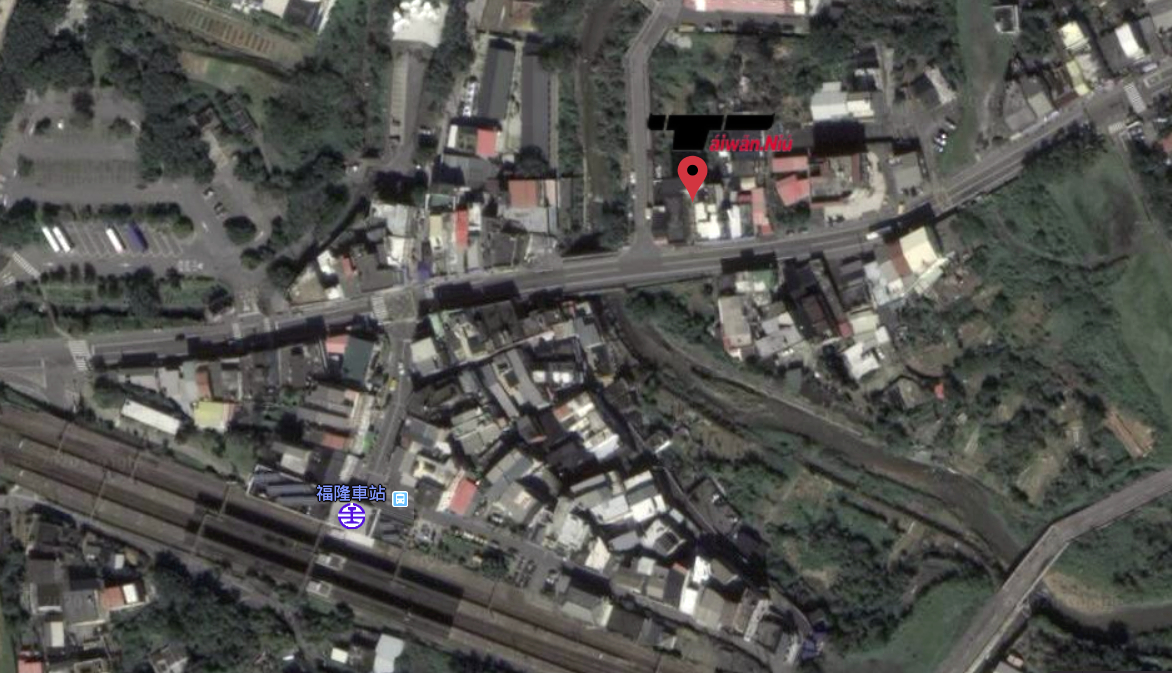
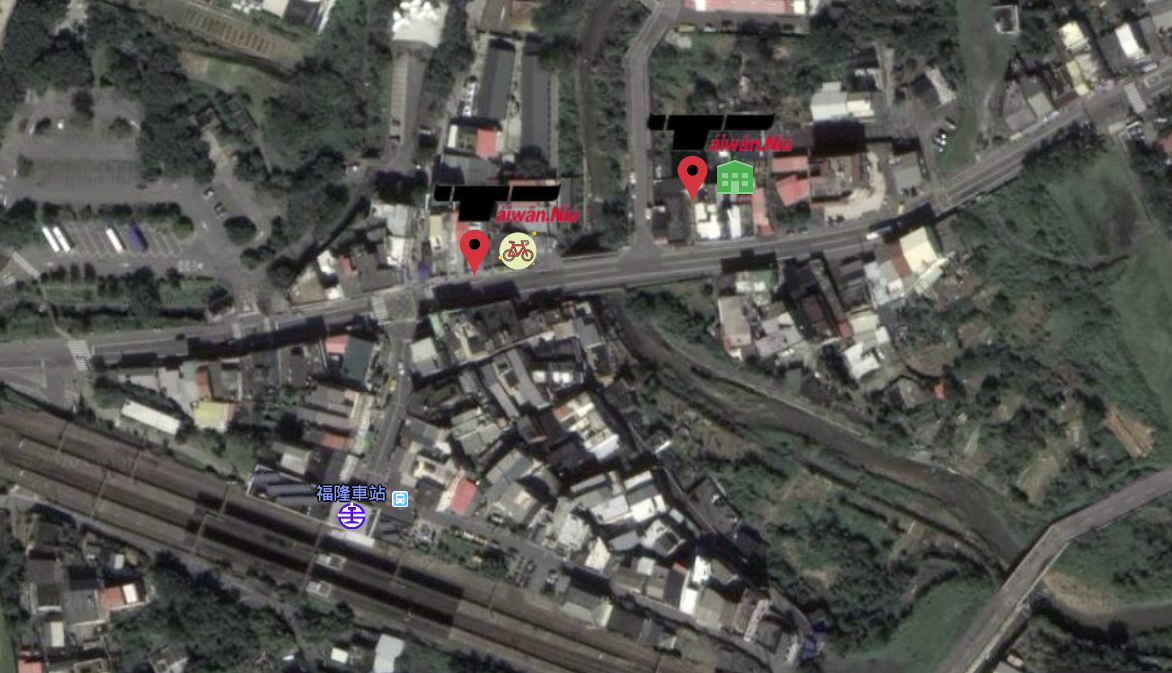
Add Location Map and Navigation Chinese now

Changed region(s): [[0.3686, 0.2496, 0.4915, 0.4056], [0.6143, 0.2184, 0.6451, 0.312]]

diff --git a/components/pages/locationPage/locationPage.component.jsx b/components/pages/locationPage/locationPage.component.jsx
@@ -2,7 +2,7 @@ import { useContext, useEffect } from 'react';
 import { useRouter } from 'next/router'
 import { Helmet } from "react-helmet";
 
-import { ServicesPageContainer, SectionContainer, TitleImageContainer, ContentContainer, TitleContainer, ImageContainer  } from './locationPage.styles';
+import { LocationPageContainer, SectionContainer, ImageContainer, ContentContainer, TitleContainer, CoverMapContainer  } from './locationPage.styles';
 
 import { injectIntl, formatMessage, FormattedMessage } from 'react-intl';
 
@@ -23,15 +23,87 @@ const LocationPage = ( { intl: { formatMessage } } ) => {
     }, []);
 
     return (
-        <ServicesPageContainer>
+        <LocationPageContainer>
             <Helmet>
-                <title>{formatMessage({ id: `servicespage.title` })}</title>
-                <meta name="description" content={formatMessage({ id: `servicespage.des` })} />
+                <title>{formatMessage({ id: `locationpage.title` })}</title>
+                <meta name="description" content={formatMessage({ id: `locationpage.des` })} />
             </Helmet>
+            <TitleContainer><FormattedMessage id='location.map.title'/></TitleContainer>
+            <CoverMapContainer className='image' src="/images/fulong_satellite_map.jpg" />
+
+            <TitleContainer><FormattedMessage id='location.navigation.title'/></TitleContainer>
+            <SectionContainer>
+                <ImageContainer  src="/images/1_intersection_to_bike_store.jpg"/>
+                <ContentContainer>
+                    <FormattedMessage id='location.1'/>
+                </ContentContainer>
+            </SectionContainer>
+
+            <SectionContainer>
+                <ImageContainer  src="/images/2_to_bridge.jpg"/>
+                <ContentContainer>
+                <FormattedMessage id='location.2'/>
+                </ContentContainer>
+            </SectionContainer>
+
+            <SectionContainer>
+                <ImageContainer  src="/images/3_turn_life_to_block.jpg"/>
+                <ContentContainer>
+                <FormattedMessage id='location.3'/>
+                </ContentContainer>
+            </SectionContainer>
+
+            <SectionContainer>
+                <ImageContainer  src="/images/4_in_block.jpg"/>
+                <ContentContainer>
+                <FormattedMessage id='location.4'/>
+                </ContentContainer>
+            </SectionContainer>
+
+            <SectionContainer>
+                <ImageContainer  src="/images/5_downstair_gate.jpg"/>
+                <ContentContainer>
+                <FormattedMessage id='location.5'/>
+                </ContentContainer>
+            </SectionContainer>
+
+            <SectionContainer>
+                <ImageContainer  src="/images/6_go_downstair.jpg"/>
+                <ContentContainer>
+                <FormattedMessage id='location.6'/>
+                </ContentContainer>
+            </SectionContainer>
+
+            <SectionContainer>
+                <ImageContainer  src="/images/7_turn_right_to_house.jpg"/>
+                <ContentContainer>
+                <FormattedMessage id='location.7'/>
+                </ContentContainer>
+            </SectionContainer>
+
+            <SectionContainer>
+                <ImageContainer  src="/images/8_rinse_arez.jpg"/>
+                <ContentContainer>
+                <FormattedMessage id='location.8'/>
+                </ContentContainer>
+            </SectionContainer>
+
+            <SectionContainer>
+                <ImageContainer  src="/images/9_up_stair.jpg"/>
+                <ContentContainer>
+                <FormattedMessage id='location.9'/>
+                </ContentContainer>
+            </SectionContainer>
+
+            <SectionContainer>
+                <ImageContainer  src="/images/10_front_door.jpg"/>
+                <ContentContainer>
+                <FormattedMessage id='location.10'/>
+                </ContentContainer>
+            </SectionContainer>
+
             
-            <ImageContainer className='image' src="images/fulong_satellite_map.jpg" />
-            
-        </ServicesPageContainer>  
+        </LocationPageContainer>  
     );
 };
 

diff --git a/locales/zh.js b/locales/zh.js
@@ -28,6 +28,20 @@ const zh_TW = {
     'services.activity': '水上活動',
     'services.activityText': '衝浪板出租: 500元/天，衝浪教學: 1200元/2小時',
 
+    'location.map.title': '地圖',
+    'location.navigation.title': '街景導航',
+    'location.1': '十字路口右前方有兩個交通錐的就是台灣牛單車出租店面',
+    'location.2': '十字路口右轉後繼續往前走約莫60公尺後會看到橋',
+    'location.3': '過橋後的路口右轉',
+    'location.4': '右轉後繼續走一小段',
+    'location.5': '右手邊會有下樓階梯',
+    'location.6': '下樓梯，對面建築二樓就是民宿',
+    'location.7': '下樓後右轉進去',
+    'location.8': '前方水管可以沖洗沙子',
+    'location.9': '左手邊樓梯上到二樓',
+    'location.10': '抵達民宿大門',
+
+
     'contact.title': '聯絡我們',
     'contact.subtitle': '有任何需求或疑問請儘管聯絡我們',
     'contact.name': '姓名',
@@ -52,6 +66,9 @@ const zh_TW = {
 
     'servicespage.title': '福隆台灣牛 - 服務項目',
     'servicespage.des': '福隆玩樂，各式腳踏車、電動車、公路車出租、包層民宿、衝浪板出租、衝浪教學、浮潛獨木舟、SUP',
+
+    'locationpage.title': '福隆台灣牛 - 單車出租 民宿 位置',
+    'locationpage.des': '福隆玩樂，各式腳踏車、電動車、公路車出租、包層民宿、衝浪板出租、衝浪教學、浮潛獨木舟、SUP',
 
     //Image Alt
     'image.coverphoto.taiwanniuStore': '福隆台灣牛店面',

diff --git a/components/pages/locationPage/locationPage.styles.jsx b/components/pages/locationPage/locationPage.styles.jsx
@@ -1,12 +1,21 @@
 import styled from 'styled-components';
 
-export const ServicesPageContainer = styled.div`
+
+
+export const LocationPageContainer = styled.div`
     display: flex;
     flex-direction: column;
     align-items: center;
     padding: 5px;
     position: relative
 
+`;
+
+export const CoverMapContainer = styled.img`
+    width: 100%;
+    height: 100%;
+
+    margin-bottom: 50px;
 `;
 
 export const SectionContainer = styled.div`
@@ -20,16 +29,17 @@ export const SectionContainer = styled.div`
     }
 `;
 
-export const TitleImageContainer = styled.div`
+export const ImageContainer = styled.img`
     display: flex;
     flex-direction: column;
-    flex: 1;
-    padding: 5px;
+    flex: 2;
+    width: 100%;
+    height: 100%;
 `
 
 export const ContentContainer = styled.div`
     // display: flex;
-    flex: 4;
+    flex: 1;
     font-size: 30px;
     padding: 5px;
     display: grid;
@@ -37,21 +47,6 @@ export const ContentContainer = styled.div`
     // vertical-align: middle;
     align-items: center;
 `
-
-export const ImageContainer = styled.img`
-    // display: block;
-    // background-image: ${({ imageUrl }) => `url(${imageUrl})`};
-    object-fit: cover;
-    padding: 5px;
-
-    width: 100%;
-    height: 100%;
-
-    @media screen and (max-width: 800px) {
-        width: 100%;
-        height: 40vh;
-    }
-`;
 
 export const TitleContainer = styled.h2`
     font-size: 38px;

diff --git a/locales/en.js b/locales/en.js
@@ -29,6 +29,17 @@ const en = {
     'services.activity': 'Activity',
     'services.activityText': 'Activity',
 
+    'location.1': '',
+    'location.2': '',
+    'location.3': '',
+    'location.4': '',
+    'location.5': '',
+    'location.6': '',
+    'location.7': '',
+    'location.8': '',
+    'location.9': '',
+    'location.10': '',
+
     'contact.title': 'Contact Form',
     'contact.subtitle': 'Send Us What You Want To Ask',
     'contact.name': 'Name',
@@ -53,6 +64,9 @@ const en = {
 
     'servicespage.title': 'Fulong Taiwan Niu - Services',
     'servicespage.des': 'All kinds of Bike, Bicycle, Electric Bicycle, Hostel, Surfboard Rental, Surfing Lesson, Canoe, Snorkeling, SUP',
+    
+    'locationpage.title': 'Fulong Taiwan Niu - Bike Rental Hostel Locations',
+    'locationpage.des': 'All kinds of Bike, Bicycle, Electric Bicycle, Hostel, Surfboard Rental, Surfing Lesson, Canoe, Snorkeling, SUP',
 
     //Image Alt
     'image.coverphoto.taiwanniuStore': 'Fulong Taiwan Niu Store',

diff --git a/pages/en/location.js b/pages/en/location.js
@@ -1,0 +1,9 @@
+import LocationPage from '../../components/pages/locationPage/locationPage.component';
+
+function Services( ) {
+    return (
+        <LocationPage />
+    )
+}
+
+export default Services;
